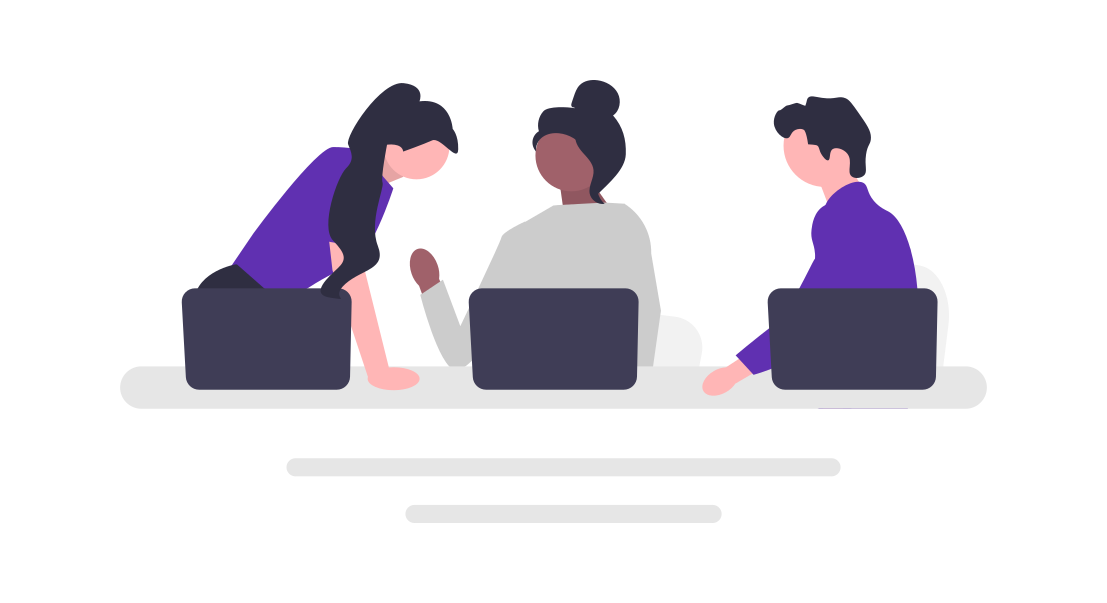
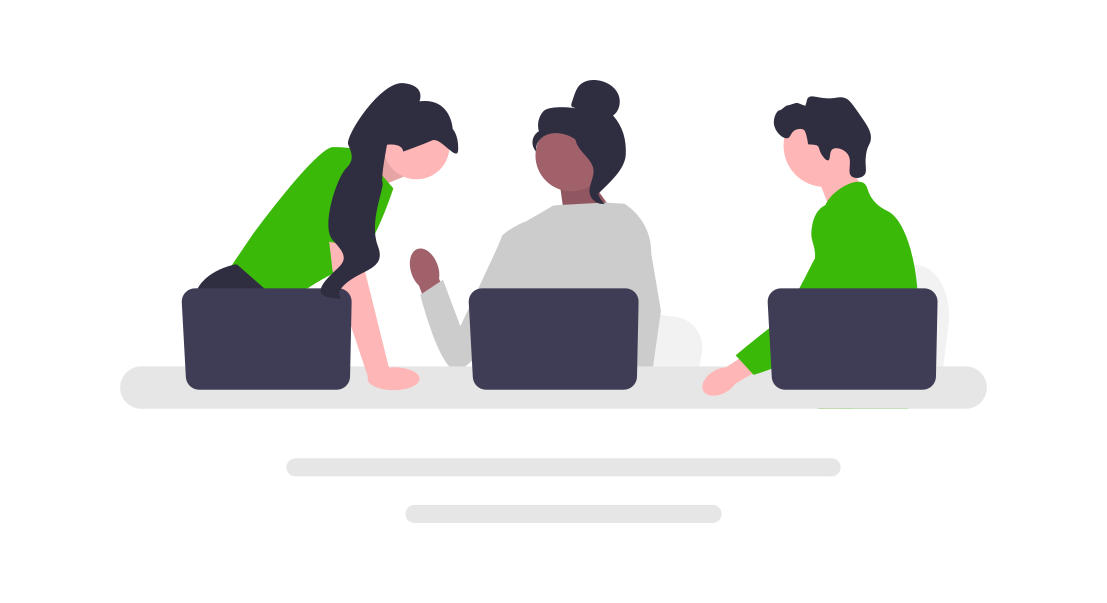
changed the color scheme to green instead of purple

diff --git a/styles.css b/styles.css
@@ -5,14 +5,21 @@
   margin: 0;
 }
 
-h1,h2,h3,h4,h5,h6,span {
+h1,
+h2,
+h3,
+h4,
+h5,
+h6,
+span {
   color: #242424;
   text-align: center;
   line-height: 1.25;
 }
 
-h1 {
+.section__title{
   font-size: 30px;
+  margin-bottom: 24px;
 }
 
 p {
@@ -37,7 +44,7 @@ li {
 }
 
 .text--purple {
-  color: #6030b1;
+  color: #3bb908;
   font-weight: 600;
 }
 
@@ -70,24 +77,24 @@ nav {
   font-weight: 700;
 }
 .nav__link--anchor--primary {
-  background-color: #6030b1;
+  background-color: #3bb908;
   color: white;
   padding: 8px 20px;
   border-radius: 50px;
   transition: all 450ms ease;
 }
 .nav__link--anchor--primary:hover {
-  background-color: #7537e0;
+  background-color: #2a5c16;
   font-size: 20px;
 }
 .personal__logo {
   margin: 0px 12px;
   font-size: 24px;
   font-weight: 700;
-  color: #6030b1;
+  color: #3bb908;
 }
 
-/*1st section*/
+/*ABOUT ME*/
 
 #about-me {
   min-height: 100vh;
@@ -95,10 +102,10 @@ nav {
   flex-direction: column;
 }
 
-.about-me__info{
-    display: flex;
-    flex-direction: column;
-    margin-top: 24px;
+.about-me__info {
+  display: flex;
+  flex-direction: column;
+  margin-top: 24px;
 }
 
 .about-me__info--container {
@@ -132,42 +139,76 @@ nav {
   margin-bottom: 28px;
 }
 
-.about-me__links--specific{
-    font-size: 18px;
-    padding: 12px;
+.about-me__links--specific {
+  font-size: 18px;
+  padding: 12px;
+  color: #3bb908;
 }
 
-.fa-instagram{
-    transition: all 300ms;
+.fa-instagram {
+  transition: all 300ms;
 }
 
-.fa-instagram:hover{
-    color: #7537e0;
-    font-size: 22px;
+.fa-instagram:hover {
+  color: #2a5c16;
+  font-size: 22px;
 }
-.fa-github{
-    transition: all 300ms;
-}
-
-.fa-github:hover{
-    color: #7537e0;
-    font-size: 22px;
-}
-.fa-file-pdf{
-    transition: all 300ms ease;
+.fa-github {
+  transition: all 300ms;
 }
 
-.fa-file-pdf:hover{
-    color: #7537e0;
-    font-size: 22px;
+.fa-github:hover {
+  color: #2a5c16;
+  font-size: 22px;
+}
+.fa-file-pdf {
+  transition: all 300ms ease;
 }
 
-.about-me__img--container{
-flex: 1;
-display: flex;align-items: center;
-margin-right: 30px;
+.fa-file-pdf:hover {
+  color: #2a5c16;
+  font-size: 22px;
 }
 
-.about-me__img{
+.about-me__img--container {
+  flex: 1;
+  display: flex;
+  align-items: center;
+  margin-right: 30px;
+}
+
+.about-me__img {
+  width: 100%;
+}
+
+/* LANGUAGES */
+
+#languages {
+  background-color: rgb(226, 226, 226);
+  border-radius: 30px;
+  margin: 0 20px;
+  padding: 24px;
+  max-width: 900px;
+  margin: 0 auto;
+}
+
+.language__list {
+  display: flex;
+  align-items: center;
+  justify-content: space-evenly;
+}
+
+.language{
+width: 33%;
+}
+
+.language__img--container {
     width: 100%;
-}
+    margin: 0 auto;
+    display: flex;justify-content: center;align-items: center;
+  }
+  
+  .language__img {
+    width: 100%;
+    max-width: 100px;
+  }

diff --git a/index.html b/index.html
@@ -83,22 +83,25 @@
             <div class="language__list">
               <div class="language">
                 <figure class="language__img--container">
-                  <img src="" alt="" class="language__img">
+                  <img src="./assets/html.png" alt="" class="language__img">
                 </figure>
               </div>
               <div class="language">
                 <figure class="language__img--container">
-                  <img src="" alt="" class="language__img">
+                  <img src="./assets/css3.png" alt="" class="language__img">
                 </figure>
               </div>
               <div class="language">
                 <figure class="language__img--container">
-                  <img src="" alt="" class="language__img">
+                  <img src="./assets/javascript.png" alt="" class="language__img">
                 </figure>
               </div>
             </div>
           </div>
         </div>
+      </section>
+      <section>
+        
       </section>
   </body>
 </html>
